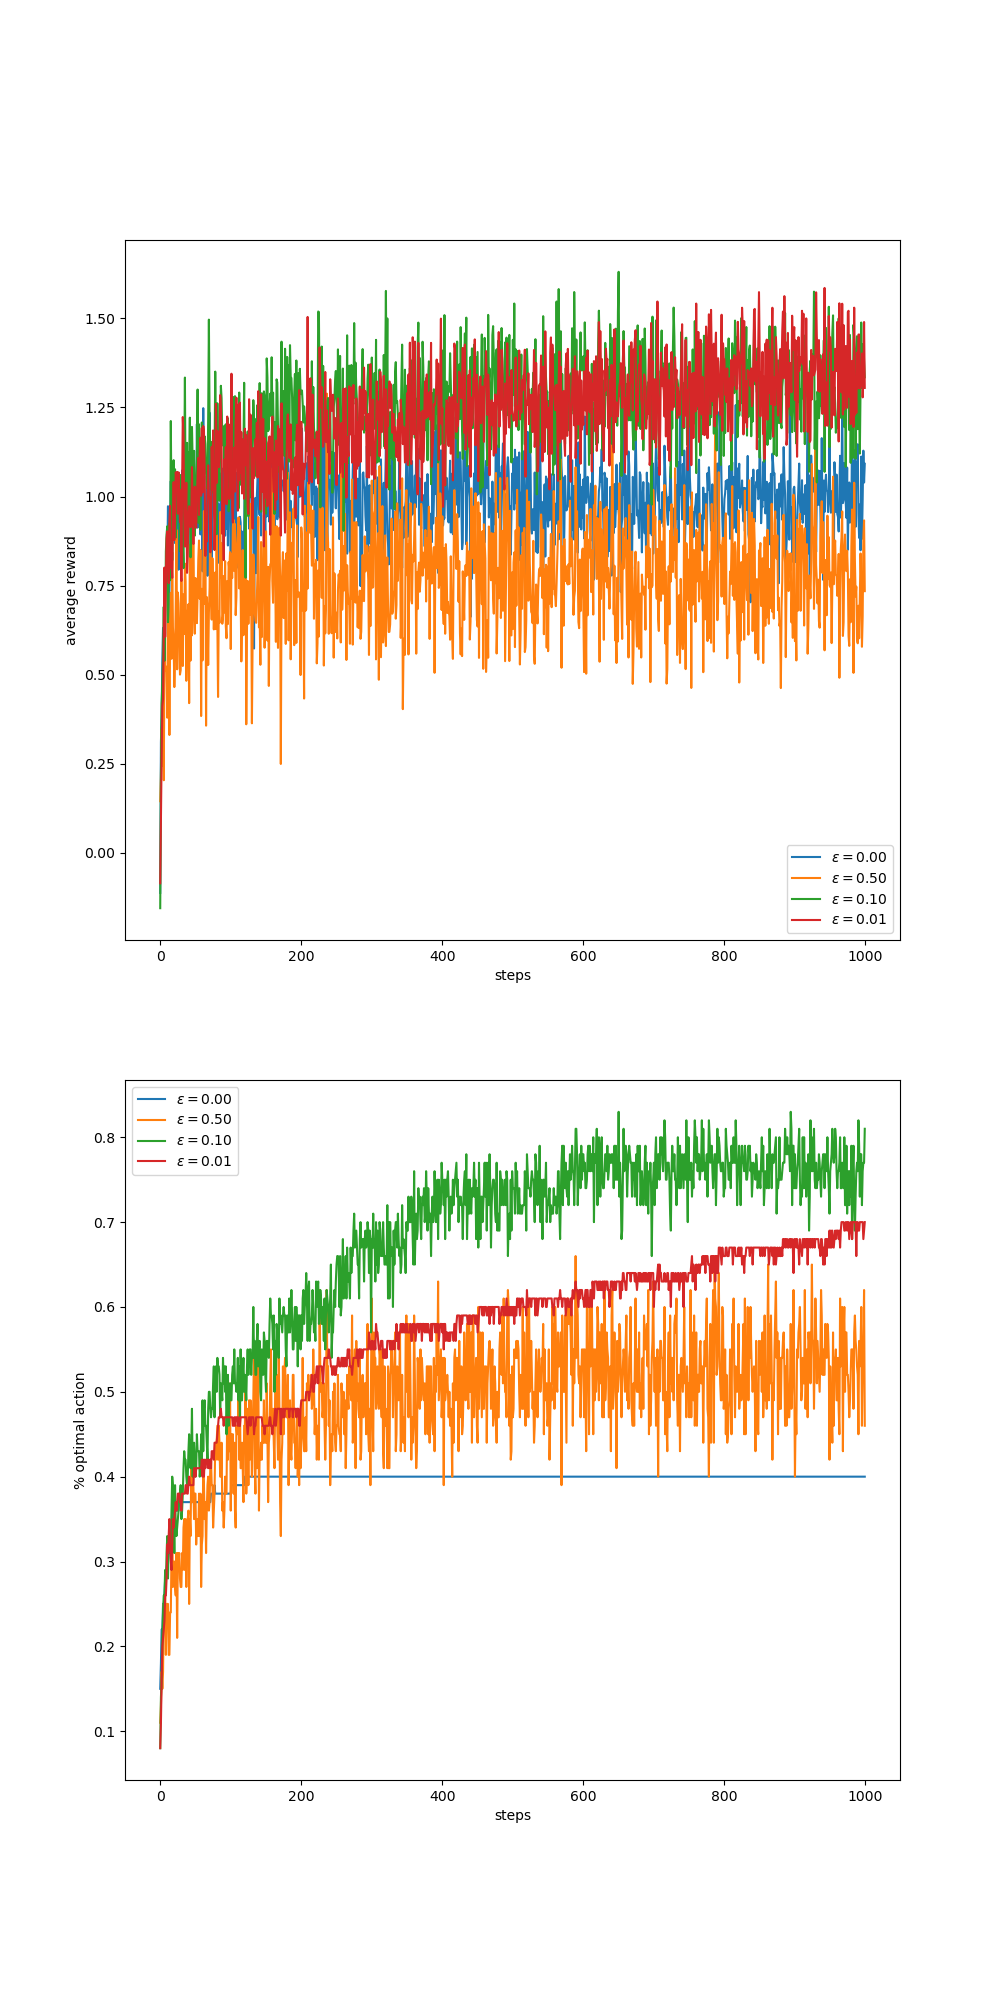
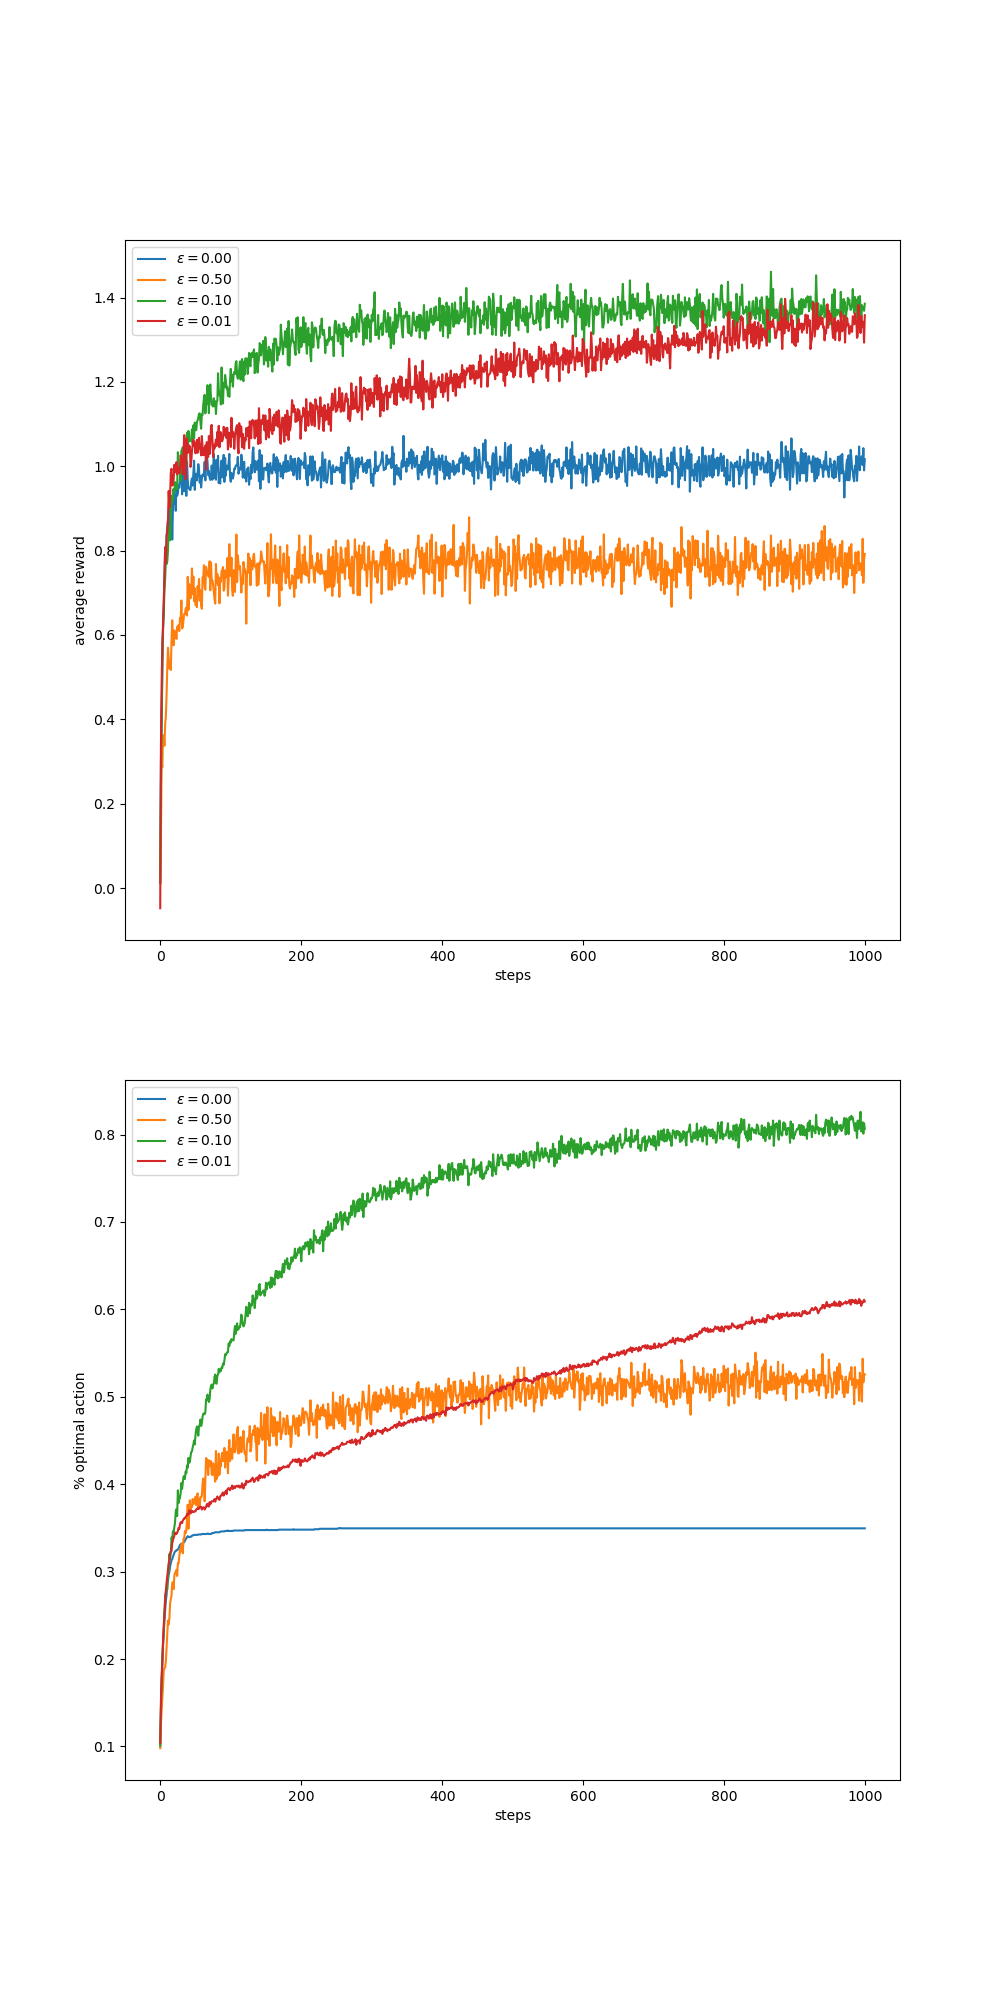
增加注释

diff --git a/chapter2/k_armed_bandit.py b/chapter2/k_armed_bandit.py
@@ -1,7 +1,10 @@
 import numpy as np
 import matplotlib
 import matplotlib.pyplot as plt
+
 matplotlib.use('Agg')
+
+
 class Bandit:
     def __init__(self, eps):
         self.k = 10
@@ -38,6 +41,7 @@ class Bandit:
         self.q_estimation = np.zeros(self.k)
         self.action_count = np.zeros(self.k)
 
+    # 这个最优动作指的是平均收益最高的动作，而非每次都比其它动作收益高
     def best_action(self):
         return np.argmax(self.q_star)
 
@@ -45,6 +49,7 @@ class Bandit:
 def simulate(rounds, steps, bandits):
     rewards = np.zeros((len(bandits), rounds, steps))
     best_action_counts = np.zeros(rewards.shape)
+    # 执行多轮，统计某个step下的最优动作比例和平均收益
     for i, bandit in enumerate(bandits):
         for episode in range(rounds):
             bandit.reset()
@@ -53,6 +58,7 @@ def simulate(rounds, steps, bandits):
                 action = bandit.action()
                 reward = bandit.evaluate(action)
                 bandit.update(action, reward)
+                # 统计
                 rewards[i, episode, step] = reward
                 if action == bandit.best_action():
                     best_action_counts[i, episode, step] = 1
@@ -66,9 +72,8 @@ def figure_2_1():
     # 生成 10 个标准正态分布随机数，真实q*
     epsilons = [0, 0.5, 0.1, 0.01]
     bandits = [Bandit(eps=eps) for eps in epsilons]
-    rounds = 100
+    rounds = 2000
     steps = 1000
-    # 执行多轮，统计某个step下的最优动作比例和平均收益
     plt.figure(figsize=(10, 20))
 
     plt.subplot(2, 1, 1)
